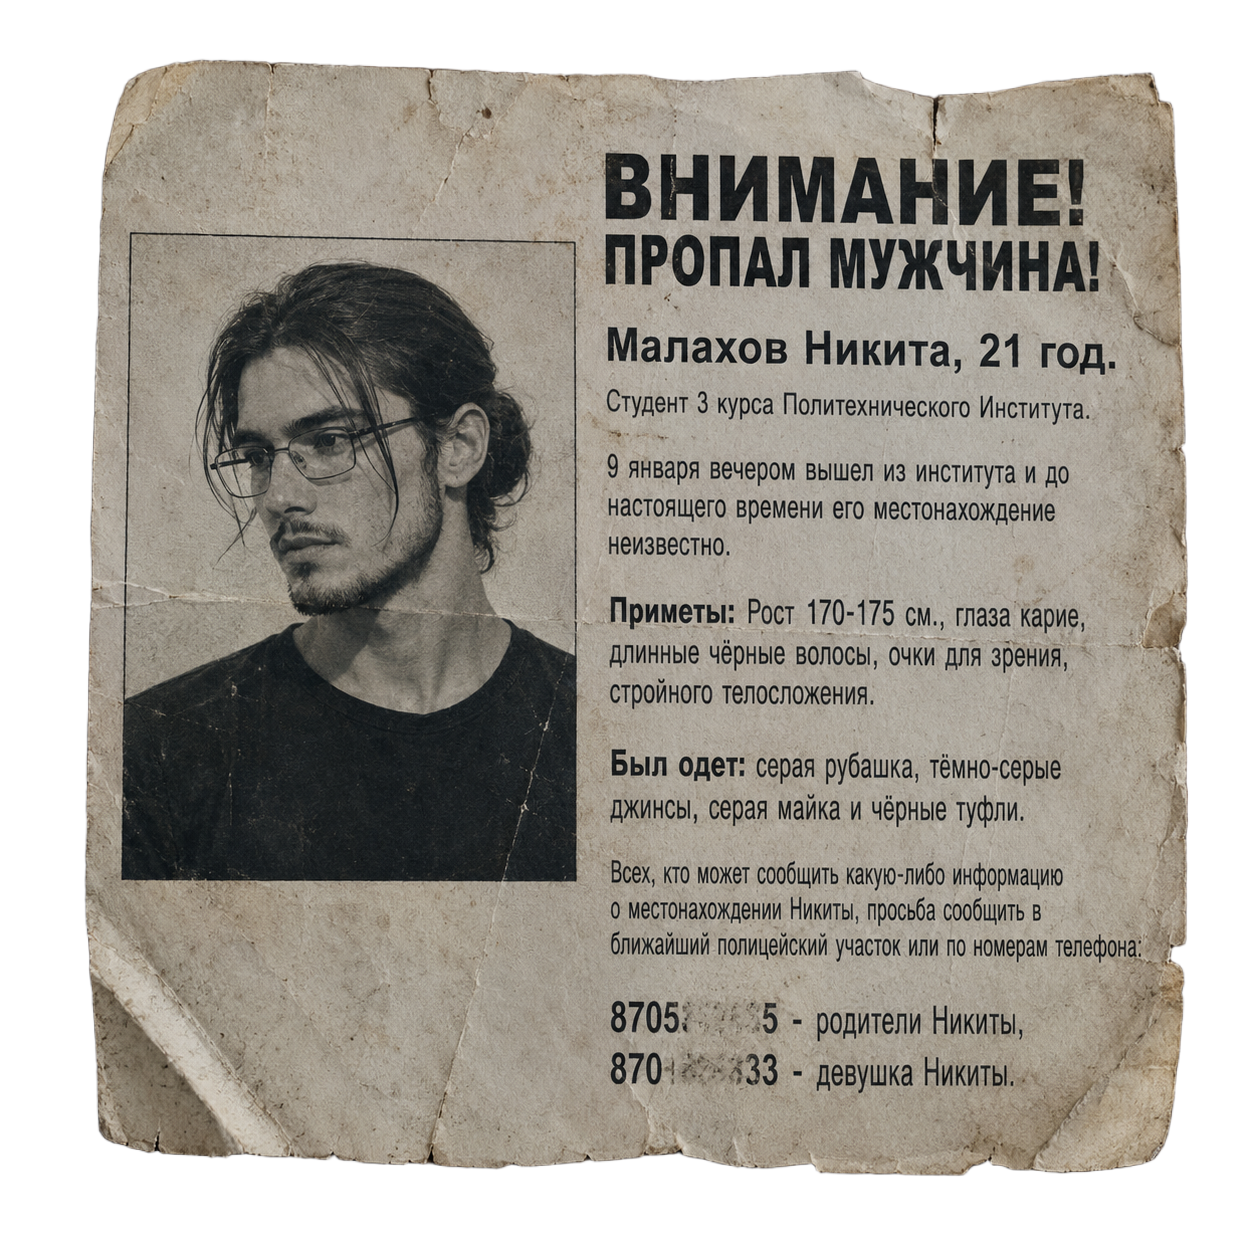
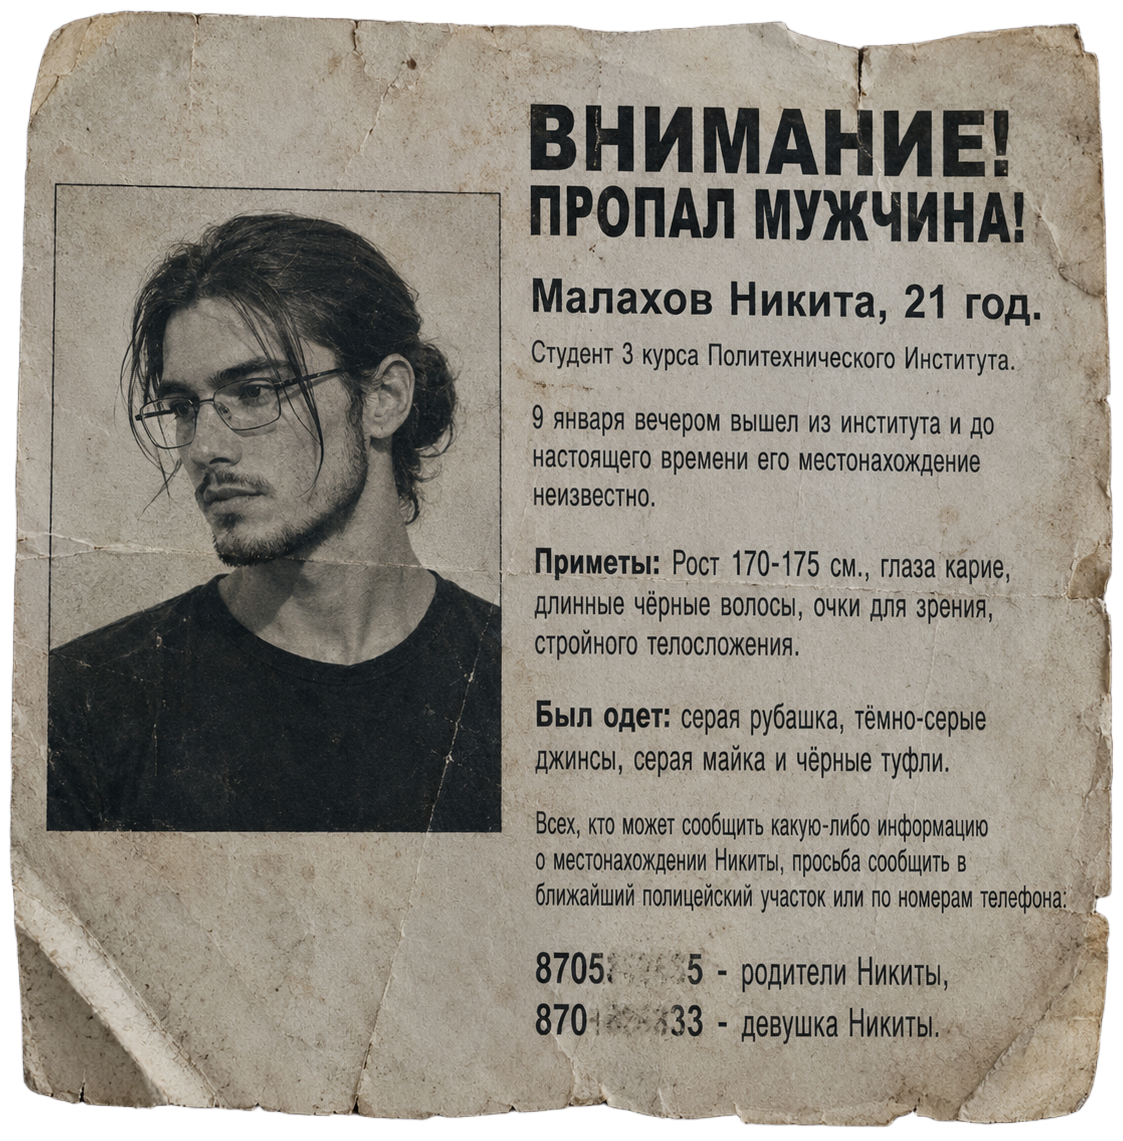
Никитаны жылжыттым

diff --git a/lib/characters.ts b/lib/characters.ts
@@ -20,7 +20,7 @@ export const CHARACTERS: Character[] = [
     description:
       "Главный герой игры, обычный студент университета, который однажды, возвращаясь с университета, попал под колёса автомобиля, вследствие чего магическим образом переместился в другой мир, где ему предстоит отыскать шесть артефактов для активации так называемых «врат между мирами». ",
     audio: "/audio/audionikity1.mp3",
-    imageShift: 300,
+    imageShift: 200,
   },
   {
     id: "aranel",
